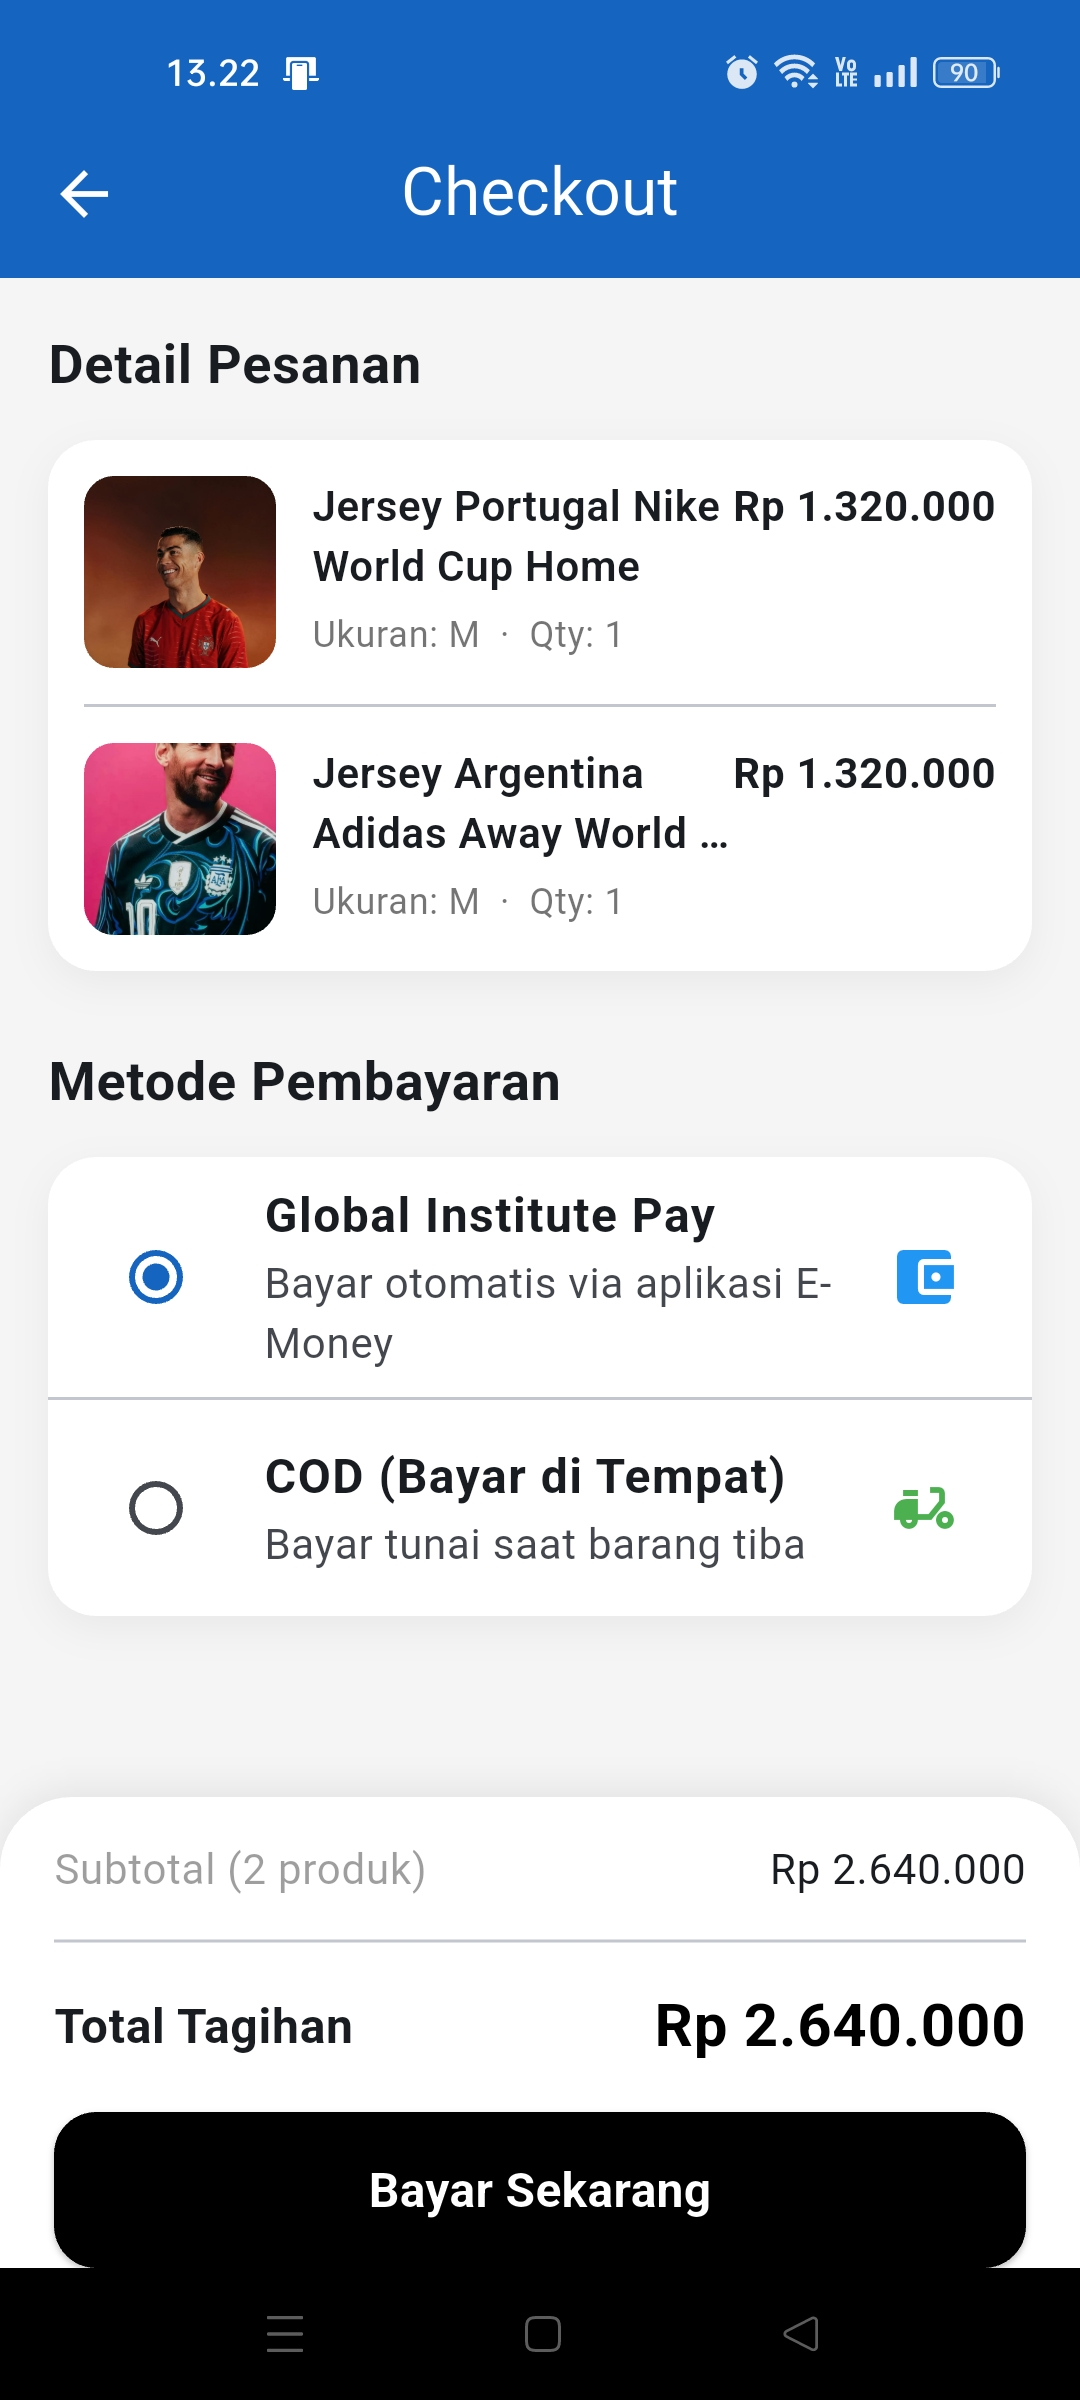
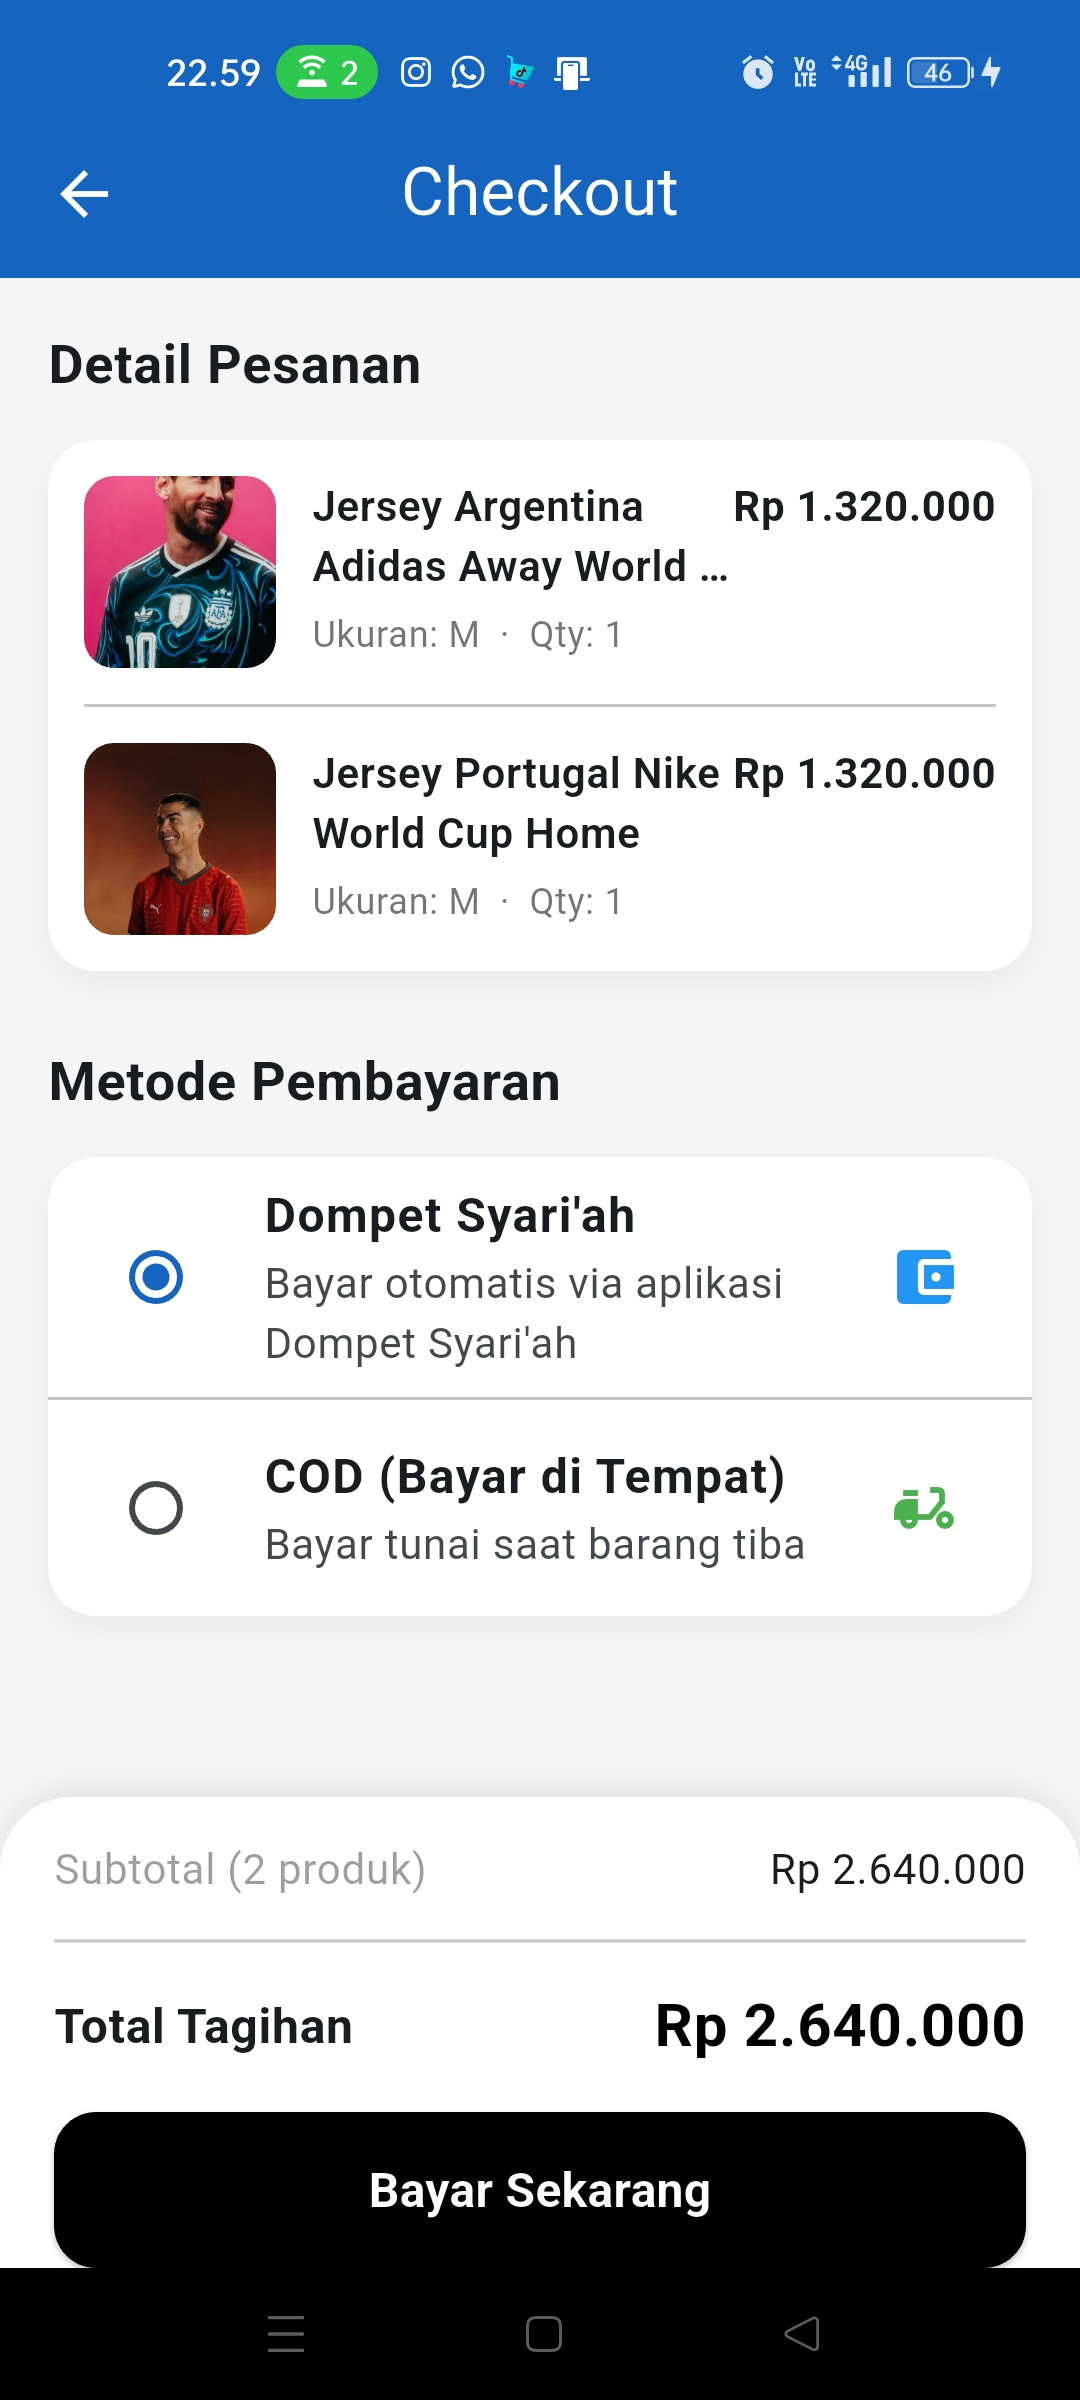
Merubah ss

diff --git a/appsmarketplace/lib/core/services/global_institute_pay_service.dart b/appsmarketplace/lib/core/services/global_institute_pay_service.dart
@@ -2,10 +2,10 @@ import 'dart:async';
 import 'package:app_links/app_links.dart';
 
 class PaymentCallbackData {
-  final String status;         // 'success', 'failed', 'cancelled'
-  final double? amount;        // Jumlah yang dikonfirmasi e-money
-  final String? reference;     // Nomor referensi / invoice
-  final String? transactionId; // ID transaksi dari e-money (DKGxxx)
+  final String status;
+  final double? amount;
+  final String? reference;
+  final String? transactionId;
 
   const PaymentCallbackData({
     required this.status,
@@ -34,22 +34,17 @@ class GlobalInstitutePayService {
     return data;
   }
 
-  // Panggil di main.dart sebelum runApp()
   Future<void> init() async {
     final appLinks = AppLinks();
 
-    // Skenario cold start: app dibuka langsung dari link balasan e-money
     try {
       final uri = await appLinks.getInitialLink();
       if (uri != null) _handleUri(uri, isColdStart: true);
     } catch (_) {}
 
-    // Skenario warm start: app sudah berjalan di background
     appLinks.uriLinkStream.listen(_handleUri);
   }
 
-  // Proses link balasan dari e-money:
-  // appsmarketplace://payment-result?status=success&amount=150000
   void _handleUri(Uri uri, {bool isColdStart = false}) {
     if (uri.scheme == 'appsmarketplace' && uri.host == 'payment-result') {
       final amountStr = uri.queryParameters['amount'];
@@ -68,14 +63,35 @@ class GlobalInstitutePayService {
     }
   }
 
-  // Bangun deeplink ke e-money:
-  // dompetsyariah://pay?merchant_id=X&merchant_name=Y&amount=Z
-  //   &description=D&reference=R&callback=appsmarketplace://payment-result
+  // Bangun deeplink ke Dompet Syari'ah dengan detail item pesanan.
+  // Format items: "qty|nama|ukuran|harga" per item, dipisah "~"
+  // Contoh: "2|Jersey Manchester United|M|150000~1|Jersey Real Madrid|L|200000"
   static String buildDeeplinkUrl({
     required int orderId,
     required double amount,
     String? description,
+    List<Map<String, dynamic>>? cartItems,
   }) {
+    // Encode setiap item sebagai "qty|nama|ukuran|harga"
+    final itemsStr = cartItems != null && cartItems.isNotEmpty
+        ? cartItems.map((i) {
+            final qty = (i['quantity'] as num).toInt();
+            final name = (i['product']['name'] as String)
+                .replaceAll('|', '-')
+                .replaceAll('~', '-');
+            final size = (i['size'] ?? '-').toString();
+            final price = (i['product']['price'] as num).toInt();
+            return '$qty|$name|$size|$price';
+          }).join('~')
+        : '';
+
+    // Deskripsi ringkas tetap dikirim sebagai fallback
+    final descFallback = cartItems != null && cartItems.isNotEmpty
+        ? cartItems
+            .map((i) => '${(i['quantity'] as num).toInt()}x ${i['product']['name']}')
+            .join(', ')
+        : (description ?? 'Order #$orderId');
+
     final uri = Uri(
       scheme: 'dompetsyariah',
       host: 'pay',
@@ -83,9 +99,8 @@ class GlobalInstitutePayService {
         'merchant_id': 'JERSEY_STORE_01',
         'merchant_name': 'Toko Jersey AppsMarketplace',
         'amount': amount.toInt().toString(),
-        'description': (description != null && description.isNotEmpty)
-            ? description
-            : 'Order #$orderId',
+        'description': descFallback,
+        'items': itemsStr,
         'reference': 'INV-$orderId',
         'callback': 'appsmarketplace://payment-result',
       },

diff --git a/appsmarketplace/lib/core/features/auth/presentation/pages/payment_pending_page.dart b/appsmarketplace/lib/core/features/auth/presentation/pages/payment_pending_page.dart
@@ -11,12 +11,14 @@ class PaymentPendingPage extends StatefulWidget {
   final int orderId;
   final double totalAmount;
   final String paymentMethod;
+  final List<Map<String, dynamic>> cartItems;
 
   const PaymentPendingPage({
     super.key,
     required this.orderId,
     required this.totalAmount,
     required this.paymentMethod,
+    this.cartItems = const [],
   });
 
   @override
@@ -71,25 +73,28 @@ class _PaymentPendingPageState extends State<PaymentPendingPage>
   }
 
   Future<void> _launchGlobalInstitutePay() async {
-    // Bangun deskripsi dari nama produk nyata di keranjang
-    final cart = context.read<CartProvider>();
-    final description = cart.items.isNotEmpty
-        ? cart.items
-            .map((i) => '${i['quantity']}x ${i['product']['name']}')
-            .join(', ')
+    // Gunakan cartItems dari constructor — sudah disimpan sebelum cart dikosongkan
+    final items = widget.cartItems;
+    final description = items.isNotEmpty
+        ? items
+              .map((i) => '${i['quantity']}x ${i['product']['name']}')
+              .join(', ')
         : 'Pembelian Jersey';
 
     final deeplinkUrl = GlobalInstitutePayService.buildDeeplinkUrl(
       orderId: widget.orderId,
       amount: widget.totalAmount,
       description: description,
+      cartItems: items,
     );
 
     final uri = Uri.parse(deeplinkUrl);
 
     try {
-      final launched =
-          await launchUrl(uri, mode: LaunchMode.externalApplication);
+      final launched = await launchUrl(
+        uri,
+        mode: LaunchMode.externalApplication,
+      );
       if (!mounted) return;
       if (launched) {
         setState(() => _payLaunched = true);
@@ -109,7 +114,7 @@ class _PaymentPendingPageState extends State<PaymentPendingPage>
       builder: (ctx) => AlertDialog(
         title: const Text('Aplikasi E-Money tidak ditemukan'),
         content: const Text(
-'Aplikasi Dompet Syari\'ah belum terinstall di perangkat Anda. '
+          'Aplikasi Dompet Syari\'ah belum terinstall di perangkat Anda. '
           'Silakan install terlebih dahulu untuk melanjutkan pembayaran.',
         ),
         actions: [

diff --git a/appsmarketplace/lib/core/features/auth/presentation/pages/checkout_page.dart b/appsmarketplace/lib/core/features/auth/presentation/pages/checkout_page.dart
@@ -38,15 +38,35 @@ class _CheckoutPageState extends State<CheckoutPage> {
 
     final cart = context.read<CartProvider>();
 
+    // Simpan item sebelum cart dikosongkan
+    final savedItems = List<Map<String, dynamic>>.from(
+      cart.items.map((i) => Map<String, dynamic>.from(i as Map)),
+    );
+    final total = _calcTotal(savedItems);
+
     if (selectedPaymentMethod == 'cod') {
-      await _showCodSuccessDialog(_calcTotal(cart.items));
+      try {
+        await cart.checkout(); // buat order + kosongkan cart di server
+      } catch (_) {
+        cart.clearLocal();
+      }
+      if (!mounted) return;
+      await _showCodSuccessDialog(total);
       if (!mounted) return;
       setState(() => isProcessing = false);
       return;
     }
 
+    // Dompet Syari'ah: buat order di server dulu, lalu lanjutkan pembayaran
+    try {
+      await cart.checkout(); // buat order + kosongkan server cart
+    } catch (_) {
+      cart.clearLocal();
+    }
+
+    if (!mounted) return;
+
     final orderId = DateTime.now().millisecondsSinceEpoch;
-    final total = _calcTotal(cart.items);
 
     Navigator.pushReplacement(
       context,
@@ -55,6 +75,7 @@ class _CheckoutPageState extends State<CheckoutPage> {
           orderId: orderId,
           totalAmount: total,
           paymentMethod: selectedPaymentMethod,
+          cartItems: savedItems, // item yang sudah disimpan sebelum checkout
         ),
       ),
     );
